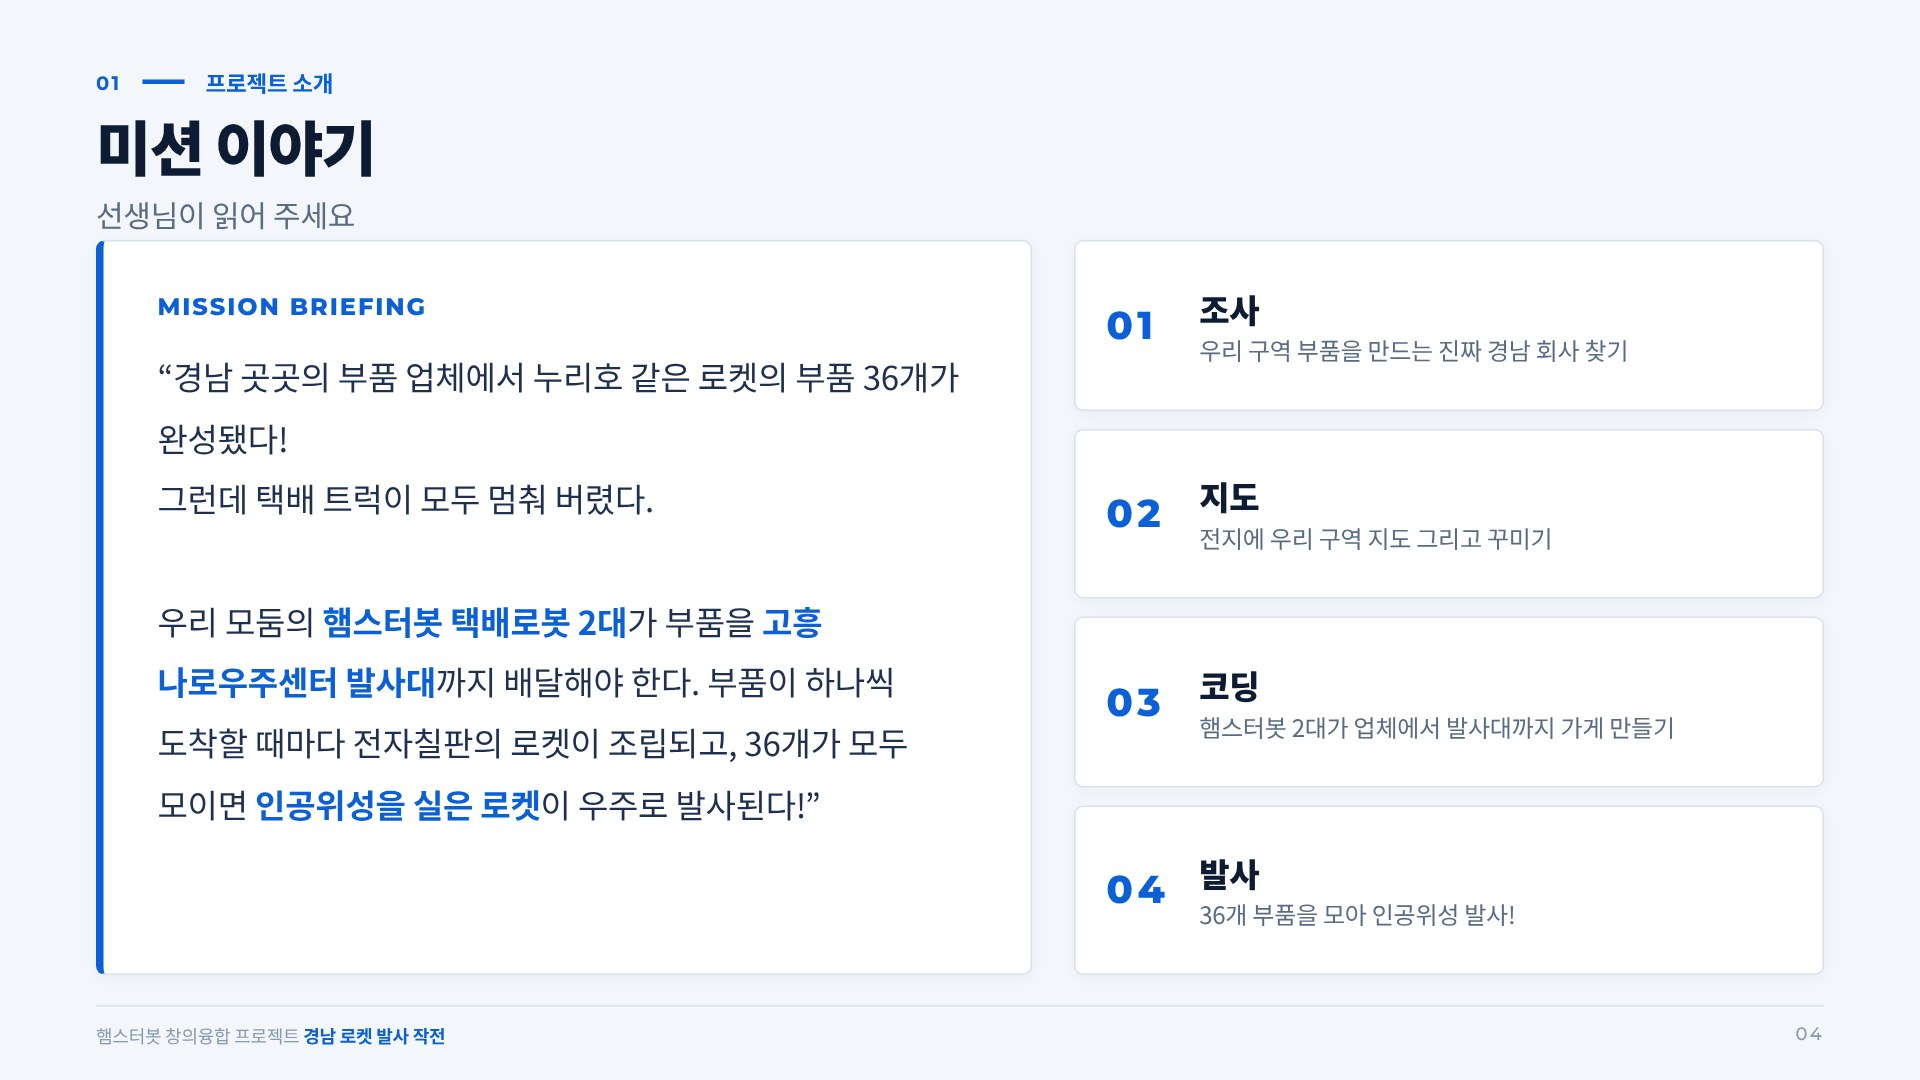
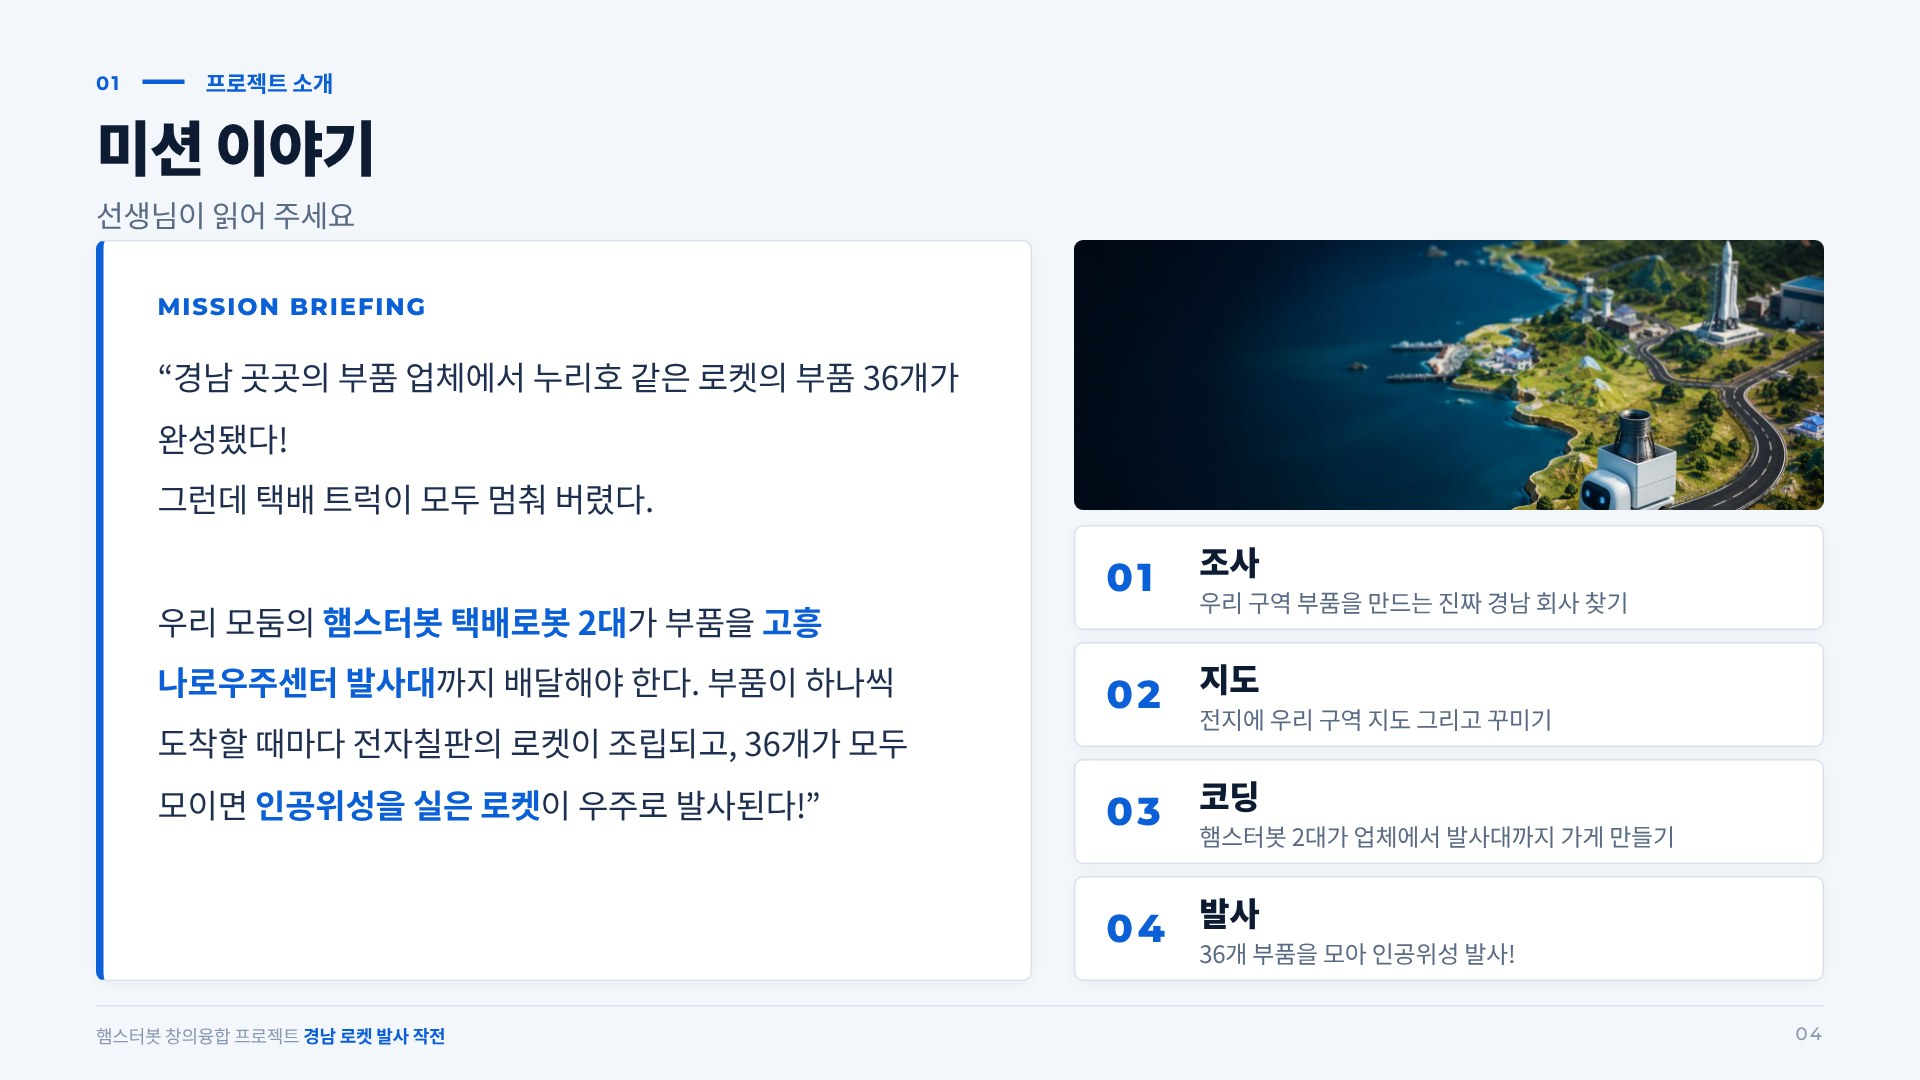
Add KAI-style AI images to cover, mission and section slides
Images generated with gpt-image-2 through MonoRouter (slides/gen_images.py).

Claude-Session: https://claude.ai/code/session_012qs1XuHKg5GAkiiCGiM9UL

Changed region(s): [[0.5625, 0.2139, 0.9688, 0.5806], [0.5625, 0.6111, 0.875, 0.9167]]

diff --git a/slides/gen_images.py b/slides/gen_images.py
@@ -1,0 +1,32 @@
+"""MonoRouter(OpenAI 호환) 이미지 생성. 결과는 slides/ai/<name>.png
+키: Network secrets(monogpt.kr, Authorization) 또는 환경 변수 MONOROUTER_API_KEY.
+디자인 기준: 한국항공우주산업(KAI) 홈페이지 - 검은/짙은 남색 배경, 영화 같은 실사 항공우주 사진, 푸른 조명, 넓은 여백."""
+import base64, json, os, sys, urllib.request
+BASE = 'https://monogpt.kr/api/monorouter/v1'
+MODEL = os.environ.get('MONOROUTER_IMAGE_MODEL', 'gpt-image-2')
+STYLE = ('Cinematic photorealistic aerospace corporate imagery like Korea Aerospace Industries website hero: '
+         'deep black and navy tones, cool blue rim light, clean minimal composition, wide negative space on the left for text, '
+         'high detail, no text, no letters, no logos, no flags.')
+P = {
+ 'cover': 'A tall white two-stage rocket standing on a seaside launch pad at blue hour, steel launch tower beside it, calm sea and faint stars.',
+ 'sec1': 'Close-up of a rocket engine nozzle cluster in a clean assembly hall, blue light, engineers silhouettes far away.',
+ 'sec2': 'A bright classroom table seen from above with a large hand-drawn paper map, colored markers, two laptops and two small white wheeled toy robots, children hands only.',
+ 'sec3': 'A large colorful hand-drawn paper map of a coastal province spread on a dark floor, with mountains, rivers, roads made of black tape, and small paper landmarks, seen from above.',
+ 'sec4': 'Precision aerospace factory in Changwon and Sacheon style: machined metal rocket parts on inspection tables, blue work lights, modern clean factory.',
+ 'sec5': 'A small white two-wheeled educational robot following a black tape line on a big hand-drawn map, macro photography, shallow depth of field, blue tint.',
+ 'sec6': 'A rocket lifting off with bright exhaust and huge white clouds over the sea at night, viewed from a distance.',
+ 'sec7': 'A tidy teacher desk with printed maps, part cards, a tablet and a small robot, overhead view, navy and white palette.',
+ 'mission': 'A tiny white delivery robot carrying a small rocket part box along a road on a colorful illustrated map of a coastal province, playful but realistic.',
+}
+def gen(name, prompt):
+    out = f'ai/{name}.png'
+    if os.path.exists(out): return
+    body = json.dumps({'model': MODEL, 'prompt': prompt + ' ' + STYLE, 'size': '1536x1024', 'n': 1}).encode()
+    h = {'Content-Type': 'application/json', 'User-Agent': 'curl/8.5.0'}
+    if os.environ.get('MONOROUTER_API_KEY'): h['Authorization'] = 'Bearer ' + os.environ['MONOROUTER_API_KEY']
+    r = json.load(urllib.request.urlopen(urllib.request.Request(BASE + '/images/generations', body, h), timeout=300))
+    d = r['data'][0]
+    data = base64.b64decode(d['b64_json']) if d.get('b64_json') else urllib.request.urlopen(d['url'], timeout=120).read()
+    open(out, 'wb').write(data); print('ok', name)
+if __name__ == '__main__':
+    for k in (sys.argv[1:] or P): gen(k, P[k])
